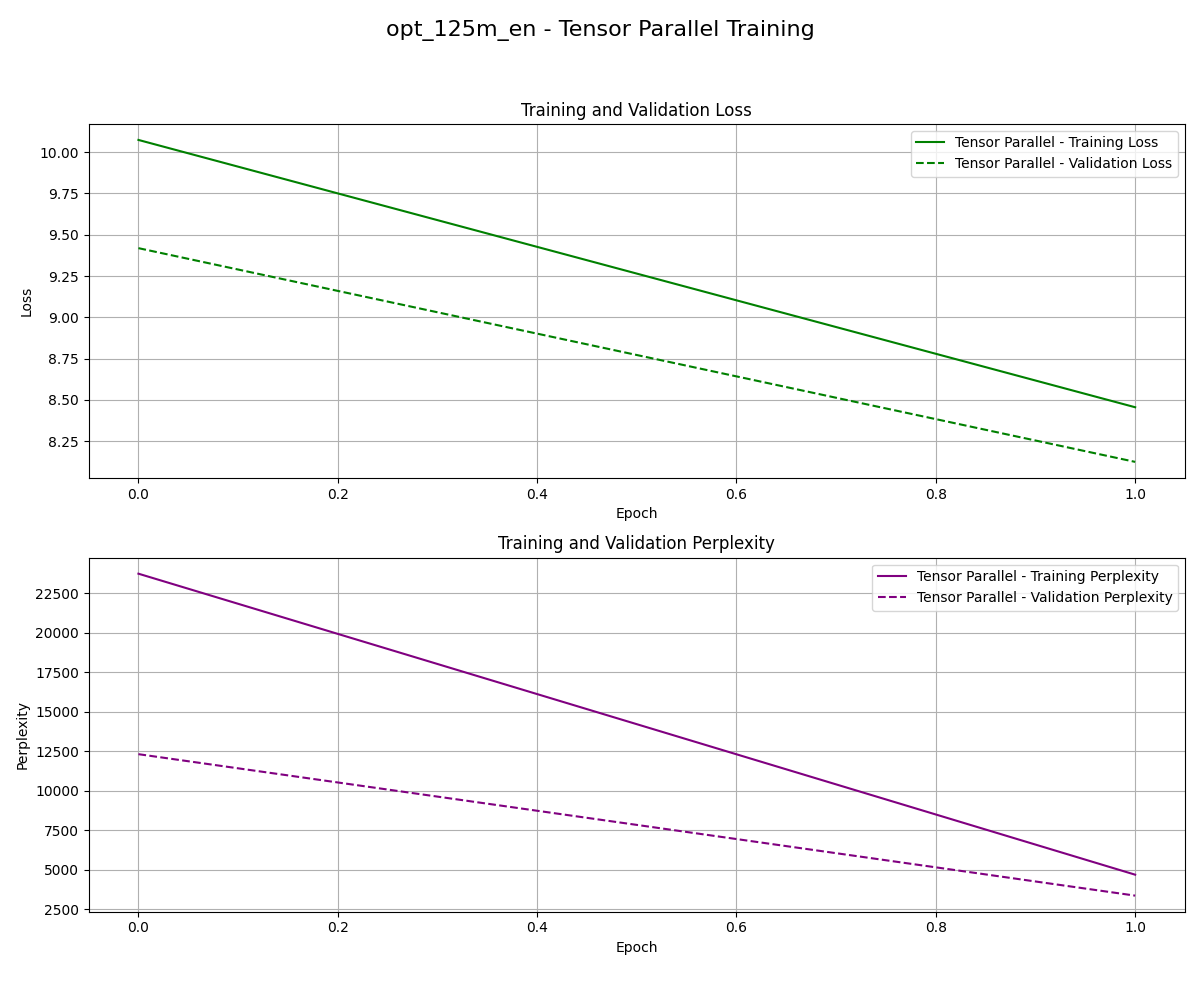
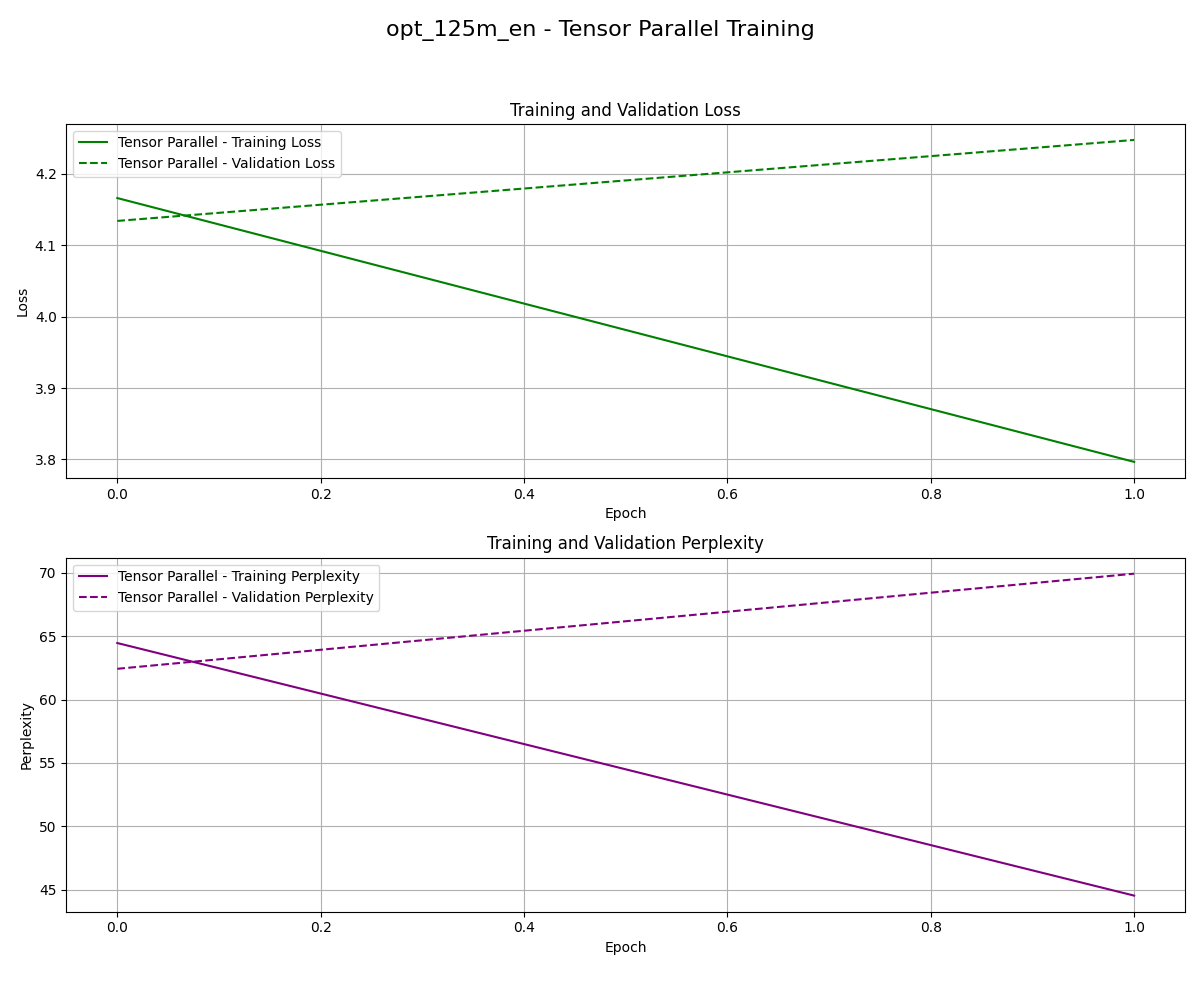
test_models running fine now

diff --git a/keras/src/distribution/tensor_parallel/test_models.py b/keras/src/distribution/tensor_parallel/test_models.py
@@ -30,8 +30,6 @@ import tensorflow_datasets as tfds
 import keras
 
 # --- Configuration and Initialization ---
-# This ensures we don't accidentally use GPUs if they are available,
-# forcing the test to run on the simulated CPU/TPU devices from XLA_FLAGS.
 tf.config.set_visible_devices([], "GPU")
 
 logging.basicConfig(level=logging.INFO, format="%(levelname)s - %(message)s")
@@ -39,17 +37,15 @@ logger = logging.getLogger(__name__)
 
 
 # --- JAX Device Detection ---
-# Verifies that JAX can see the simulated devices from XLA_FLAGS.
 try:
     devices = jax.devices()
     logger.info(f"JAX devices found: {[str(d) for d in devices]}")
-    # Prefer CPUs for this host-simulated test
     host_devices = [d for d in devices if d.platform == "cpu"]
     if not host_devices:
-        host_devices = devices  # Fallback to any available device
+        host_devices = devices
 
     DEVICES_AVAILABLE = len(host_devices)
-    WORLD_SIZE = 2  # Hardcode target world size for a 2-way sharded test
+    WORLD_SIZE = 2
 
     if DEVICES_AVAILABLE < WORLD_SIZE:
         logger.warning(
@@ -70,10 +66,6 @@ except Exception as e:
     TARGET_WORLD_SIZE = 0
 
 
-# --- STEP 3: Import the custom TensorParallelKeras class ---
-# This import now directly attempts to load the real implementation.
-# If it fails, the script will raise an ImportError and stop, which is
-# the desired behavior for a non-mock test.
 from keras.src.distribution.tensor_parallel.tensor_parallel_keras import (
     TensorParallelKeras,
 )
@@ -82,12 +74,13 @@ from keras.src.distribution.tensor_parallel.tensor_parallel_keras import (
 BATCH_SIZE = 16
 SEQUENCE_LENGTH = 128
 LEARNING_RATE = 1e-4
-EPOCHS = 2
-STEPS_PER_EPOCH = 10  # Keep low for a quick test
+EPOCHS = 10
+STEPS_PER_EPOCH = 10
 VALIDATION_STEPS = 5
+LOSS_TOLERANCE = 1e-1 # Set a tolerance for comparing floating point numbers
 
 MODEL_MAPPING = {
-    "opt_125m_en": keras_nlp.models.OPTCausalLM,
+    "opt_1.3b_en": keras_nlp.models.OPTCausalLM,
 }
 
 # ----------------------------------------------------------------------
@@ -151,65 +144,70 @@ def get_model_from_preset(preset_name, model_class):
 
 
 # ----------------------------------------------------------------------
-# --- Plotting Function ---
+# --- Plotting Function (MODIFIED) ---
 # ----------------------------------------------------------------------
 
 
-def plot_training_graphs(tp_history, preset_name):
-    """Plots and saves the loss and perplexity graphs for TP training."""
+def plot_training_graphs(baseline_history, tp_history, preset_name):
+    """Plots and saves the loss and perplexity graphs for both runs."""
     fig, (ax1, ax2) = plt.subplots(2, 1, figsize=(12, 10))
-    fig.suptitle(f"{preset_name} - Tensor Parallel Training", fontsize=16)
+    fig.suptitle(f"{preset_name} - Baseline vs. Tensor Parallel", fontsize=16)
 
+    # Plotting Loss
     ax1.plot(
-        tp_history.history["loss"],
-        label="Tensor Parallel - Training Loss",
-        color="green",
-        linestyle="-",
+        baseline_history.history["val_loss"],
+        label="Baseline - Validation Loss",
+        color="blue",
+        linestyle="--",
     )
     ax1.plot(
         tp_history.history["val_loss"],
         label="Tensor Parallel - Validation Loss",
         color="green",
-        linestyle="--",
+        linestyle="-.",
     )
-    ax1.set_title("Training and Validation Loss")
+    ax1.set_title("Validation Loss Comparison")
     ax1.set_ylabel("Loss")
     ax1.set_xlabel("Epoch")
     ax1.legend()
     ax1.grid(True)
 
+    # Plotting Perplexity
     ax2.plot(
-        tp_history.history["perplexity"],
-        label="Tensor Parallel - Training Perplexity",
-        color="purple",
-        linestyle="-",
+        baseline_history.history["val_perplexity"],
+        label="Baseline - Validation Perplexity",
+        color="orange",
+        linestyle="--",
     )
     ax2.plot(
         tp_history.history["val_perplexity"],
         label="Tensor Parallel - Validation Perplexity",
         color="purple",
-        linestyle="--",
+        linestyle="-.",
     )
-    ax2.set_title("Training and Validation Perplexity")
+    ax2.set_title("Validation Perplexity Comparison")
     ax2.set_ylabel("Perplexity")
     ax2.set_xlabel("Epoch")
     ax2.legend()
     ax2.grid(True)
 
-    output_filename = f"{preset_name}_tp_verification.png"
+    output_filename = f"{preset_name}_comparison.png"
     plt.tight_layout(rect=[0, 0.03, 1, 0.95])
     plt.savefig(output_filename)
-    logger.info(f"\nTraining graph saved to {output_filename}")
+    logger.info(f"\nComparison graph saved to {output_filename}")
     plt.close()
 
 
 # ----------------------------------------------------------------------
-# --- Main Verification Function ---
+# --- Main Verification Function (MODIFIED) ---
 # ----------------------------------------------------------------------
 
 
 def run_model_verification(preset_name, model_class):
-    """Runs the full training verification test for a given model preset."""
+    """
+    Runs a full training verification test for a given model preset by
+    comparing a baseline single-device run to a tensor-parallel run.
+    """
 
     if TARGET_WORLD_SIZE < 2:
         logger.warning(
@@ -219,11 +217,12 @@ def run_model_verification(preset_name, model_class):
         return "SKIPPED"
 
     logger.info(f"--- VERIFICATION FOR: {preset_name.upper()} ---")
-    start_time_total = time.time()
 
+    # --- Common Setup ---
+    # Create one model template to save its initial weights for both runs
     model_template = get_model_from_preset(preset_name, model_class)
     initial_weights = model_template.get_weights()
-    logger.info("Initial weights saved from template model.")
+    logger.info("Initial weights saved. Both models will start from this state.")
 
     train_ds_raw, val_ds_raw = load_shakespeare_dataset(preset_name)
 
@@ -240,32 +239,43 @@ def run_model_verification(preset_name, model_class):
         .repeat()
     )
 
-    total_steps = STEPS_PER_EPOCH * EPOCHS
-    total_samples = total_steps * BATCH_SIZE
-    total_tokens_processed = total_samples * SEQUENCE_LENGTH
-    logger.info(f"Total tokens to process: {total_tokens_processed:,}")
+    # --- 1. Baseline Model Training (Single Device) ---
+    logger.info("\n--- Training Baseline Model (Single Device) ---")
+    baseline_model = get_model_from_preset(preset_name, model_class)
+    baseline_model.set_weights(initial_weights)
 
-    logger.info("\n--- Training Tensor Parallel (TP) Model ---")
-
-    logger.info(
-        f"Initializing TensorParallelKeras with world_size={TARGET_WORLD_SIZE} "
-        f"on devices: {[str(d) for d in TARGET_DEVICES]}"
+    baseline_model.compile(
+        optimizer=keras.optimizers.AdamW(learning_rate=LEARNING_RATE),
+        loss=keras.losses.SparseCategoricalCrossentropy(from_logits=True),
+        metrics=[
+            keras_nlp.metrics.Perplexity(from_logits=True, name="perplexity")
+        ],
     )
 
-    # The TensorParallelKeras class itself is the model to be trained.
-    # It wraps the original model and manages the sharded versions internally.
+    baseline_history = baseline_model.fit(
+        train_ds,
+        validation_data=val_ds,
+        epochs=EPOCHS,
+        steps_per_epoch=STEPS_PER_EPOCH,
+        validation_steps=VALIDATION_STEPS,
+        verbose=1,
+    )
+    baseline_final_val_loss = baseline_history.history["val_loss"][-1]
+    logger.info("Baseline model training completed.")
+
+    # --- 2. Tensor Parallel Model Training ---
+    logger.info("\n--- Training Tensor Parallel (TP) Model ---")
+    # We create a new template instance to be wrapped by TensorParallelKeras
+    tp_model_template = get_model_from_preset(preset_name, model_class)
+    tp_model_template.set_weights(initial_weights) # Ensure it starts from the same point
+
     tp_model = TensorParallelKeras(
-        model=model_template,
+        model=tp_model_template,
         world_size=TARGET_WORLD_SIZE,
         distributed_backend="jax",
         device_ids=TARGET_DEVICES,
     )
 
-    # Set weights on the original model before sharding logic uses them.
-    tp_model.original_model.set_weights(initial_weights)
-    logger.info("Initial weights set on TP model.")
-
-    # Compiling the TP model automatically sets up the CoordinatedOptimizer
     tp_model.compile(
         optimizer=keras.optimizers.AdamW(learning_rate=LEARNING_RATE),
         loss=keras.losses.SparseCategoricalCrossentropy(from_logits=True),
@@ -274,7 +284,6 @@ def run_model_verification(preset_name, model_class):
         ],
     )
 
-    tp_start_time = time.time()
     tp_history = tp_model.fit(
         train_ds,
         validation_data=val_ds,
@@ -283,27 +292,26 @@ def run_model_verification(preset_name, model_class):
         validation_steps=VALIDATION_STEPS,
         verbose=1,
     )
-    tp_end_time = time.time()
+    tp_final_val_loss = tp_history.history["val_loss"][-1]
     logger.info("TP model training completed.")
 
-    tp_time = tp_end_time - tp_start_time
-    tp_throughput_tps = total_tokens_processed / tp_time if tp_time > 0 else 0
 
-    logger.info("\n--- Performance Metrics ---")
-    logger.info(f"TP Training Time:       {tp_time:.2f} s")
-    logger.info(f"TP Throughput:          {tp_throughput_tps:,.2f} Tokens/s")
+    # --- 3. Comparison and Verification ---
+    logger.info("\n--- ⚖ Verification Results ---")
+    logger.info(f"Baseline Final Validation Loss: {baseline_final_val_loss:.6f}")
+    logger.info(f"TP Final Validation Loss:       {tp_final_val_loss:.6f}")
 
-    tp_final_val_loss = tp_history.history["val_loss"][-1]
-    logger.info(f"Final Validation Loss: {tp_final_val_loss:.4f}")
+    loss_diff = abs(baseline_final_val_loss - tp_final_val_loss)
+    logger.info(f"Absolute Difference:            {loss_diff:.6f}")
 
-    plot_training_graphs(tp_history, preset_name)
+    plot_training_graphs(baseline_history, tp_history, preset_name)
 
-    logger.info(
-        f"Test for {preset_name} completed in "
-        f"{time.time() - start_time_total:.2f}s"
-    )
-    # A simple pass/fail check: training should not fail and loss should be a valid number.
-    return not np.isnan(tp_final_val_loss) and not np.isinf(tp_final_val_loss)
+    if loss_diff < LOSS_TOLERANCE:
+        logger.info(f"✅ SUCCESS: Loss difference is within tolerance ({LOSS_TOLERANCE}).")
+        return True
+    else:
+        logger.error(f"❌ FAILURE: Loss difference exceeds tolerance ({LOSS_TOLERANCE}).")
+        return False
 
 
 # ----------------------------------------------------------------------

diff --git a/keras/src/distribution/tensor_parallel/tensor_parallel_keras.py b/keras/src/distribution/tensor_parallel/tensor_parallel_keras.py
@@ -5,17 +5,23 @@ Port of the PyTorch tensor_parallel library
 
 import logging
 import re
-from typing import Collection
-from typing import Optional
-from typing import Sequence
-from typing import Union
-import keras_nlp
+from typing import Collection, Optional, Sequence, Union
+
+try:
+    import keras_nlp
+    KERAS_NLP_AVAILABLE = True
+    logger = logging.getLogger(__name__)
+    logger.info("✅ KerasNLP found. Sharding will be applied to KerasNLP layers where applicable.")
+except ImportError:
+    keras_nlp = None
+    KERAS_NLP_AVAILABLE = False
+    logger = logging.getLogger(__name__)
+    logger.warning(" KerasNLP not found. Sharding will only apply to stock Keras layers.")
+
 import numpy as np
 import tensorflow as tf
-
 import keras
 from keras import ops
-
 from keras.src.distribution.tensor_parallel.autoconfig import (
     get_default_config_keras,
 )
@@ -977,35 +983,6 @@ class TensorParallelKeras(Model):
         else:
             super().compile(optimizer, loss, metrics, **kwargs)
 
-    def train_step(self, state, data):
-        """
-        Implements the logic for a single training step, with a signature
-        compatible with the JAX backend.
-
-        The JAX backend calls this method with `state` (weights and optimizer
-        state) and `data`. This method accepts both and then implements the
-        full training step logic manually.
-        """
-        import tensorflow as tf
-        x, y, sample_weight = keras.utils.unpack_x_y_sample_weight(data)
-
-        with tf.GradientTape() as tape:
-            y_pred = self(x, training=True)
-            loss = self.compute_loss(
-                x=x, y=y, y_pred=y_pred, sample_weight=sample_weight
-            )
-        trainable_vars = self.trainable_variables
-        gradients = tape.gradient(loss, trainable_vars)
-        self.optimizer.apply_gradients(zip(gradients, trainable_vars))
-
-        for metric in self.metrics:
-            if metric.name == "loss":
-                metric.update_state(loss)
-            else:
-                metric.update_state(y, y_pred, sample_weight=sample_weight)
-
-        return {m.name: m.result() for m in self.metrics}
-
     def _apply_backward_communication(self, gradients, layer_type="unknown"):
         """
         Apply backward pass communication following the conjugate rule.
@@ -1225,11 +1202,11 @@ class TensorParallelKeras(Model):
             return "unknown"
 
     def fit(self, x=None, y=None, **kwargs):
-        """Use standard Keras training with our corrected train_step method."""
+        """Use standard Keras training which correctly handles the train_step."""
         print("🚀 FIT METHOD CALLED ON TENSOR PARALLEL MODEL! 🚀")
 
         if len(self.model_shards) > 1:
-            print("🚀 USING STANDARD KERAS TRAINING WITH CUSTOM TRAIN_STEP! 🚀")
+            print("🚀 USING STANDARD KERAS TRAINING! 🚀")
             return super().fit(x, y, **kwargs)
         else:
             print("🚀 USING STANDARD FIT FOR SINGLE SHARD! 🚀")
@@ -1347,10 +1324,9 @@ class TensorParallelKeras(Model):
         return_dict=False,
     ):
         """
-        Train on a single batch of data ensuring numerical equivalence for testing.
-        This will be replaced with actual tensor parallelism once we verify correctness.
+        Train on a single batch of data. This will use the default logic.
         """
-        logger.debug("Routing train_on_batch to custom train_step")
+        logger.debug("Routing train_on_batch to parent implementation.")
 
         try:
             return super().train_on_batch(
